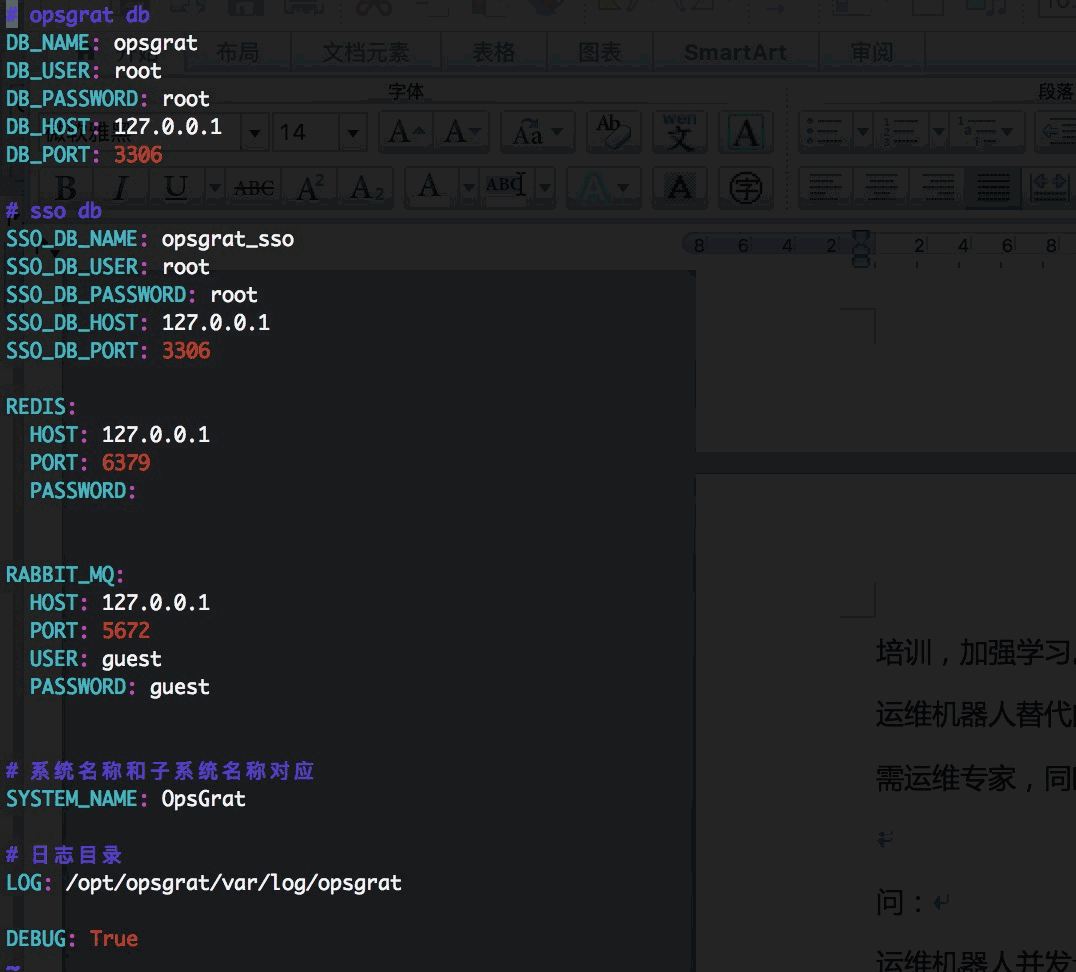
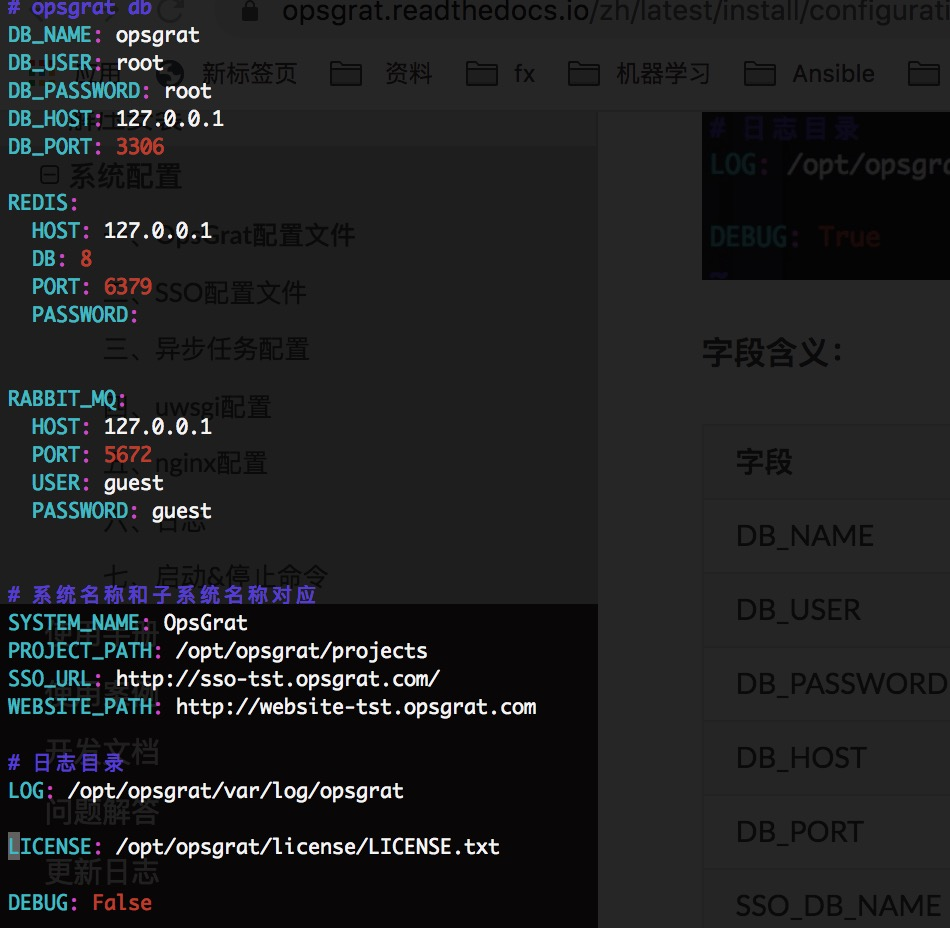
修正OpsGrat配置文件字段解释错误，增加License配置说明

diff --git a/source/install/configuration.rst b/source/install/configuration.rst
@@ -36,25 +36,15 @@
 +------------------------+------------+------------+------------------------------------------------+
 |**字段**                |**数据类型**|**是否必须**|**说明**                                        |
 +------------------------+------------+------------+------------------------------------------------+
-| DB_NAME                | String     | 是         | SSO数据库名称                                  |
+| DB_NAME                | String     | 是         | OpsGrat数据库名称                              |
 +------------------------+------------+------------+------------------------------------------------+
-| DB_USER                | String     | 是         | SSO数据库用户账号名                            |
+| DB_USER                | String     | 是         | OpsGrat数据库用户账号名                        |
 +------------------------+------------+------------+------------------------------------------------+
-| DB_PASSWORD            | String     | 是         | SSO数据库密码                                  |
+| DB_PASSWORD            | String     | 是         | OpsGrat数据库密码                              |
 +------------------------+------------+------------+------------------------------------------------+
-| DB_HOST                | String     | 是         | SSO数据库主机名、ip地址或域名                  |
+| DB_HOST                | String     | 是         | OpsGrat数据库主机名、ip地址或域名              |
 +------------------------+------------+------------+------------------------------------------------+
-| DB_PORT                | String     | 是         | SSO数据库端口                                  |
-+------------------------+------------+------------+------------------------------------------------+
-| SSO_DB_NAME            | String     | 是         | SSO数据库名称                                  |
-+------------------------+------------+------------+------------------------------------------------+
-| SSO_DB_USER            | String     | 是         | SSO数据库用户账号名                            |
-+------------------------+------------+------------+------------------------------------------------+
-| SSO_DB_PASSWORD        | String     | 是         | SSO数据库密码                                  |
-+------------------------+------------+------------+------------------------------------------------+
-| SSO_DB_HOST            | String     | 是         | SSO数据库主机名、ip地址或域名                  |
-+------------------------+------------+------------+------------------------------------------------+
-| SSO_DB_PORT            | String     | 是         | SSO数据库主端口                                |
+| DB_PORT                | String     | 是         | OpsGrat数据库端口                              |
 +------------------------+------------+------------+------------------------------------------------+
 | REDIS:                 | Dict       | 是         | Redis配置                                      |
 +------------------------+------------+------------+------------------------------------------------+
@@ -79,6 +69,8 @@
 | LOG                    | String     | 是         | OpsGrat系统日志路径                            |
 +------------------------+------------+------------+------------------------------------------------+
 | DEBUG                  | String     | 是         | 是否开启debug模式                              |
++------------------------+------------+------------+------------------------------------------------+
+| LICENSE                | String     | 是         | License文件路径                                |
 +------------------------+------------+------------+------------------------------------------------+
 
 
@@ -132,6 +124,8 @@
 +------------------------+------------+------------+------------------------------------------------+
 | DEBUG                  | String     | 是         | 是否开启debug模式                              |
 +------------------------+------------+------------+------------------------------------------------+
+| LICENSE                | String     | 是         | License文件路径                                |
++------------------------+------------+------------+------------------------------------------------+
 
 三、异步任务配置
 --------------------------
@@ -152,6 +146,8 @@
 | opsgratbeat.ini        | OpsGrat定时任务进程，用于生成计划任务作业                                |
 +------------------------+--------------------------------------------------------------------------+
 | ssod.ini               | SSO异步任务进程，用于执行AD用户同步等异步任务，默认进程数为2             |
++------------------------+--------------------------------------------------------------------------+
+| ssobeat.ini            | SSO定时任务进程，用于生成计划任务作业                                    |
 +------------------------+--------------------------------------------------------------------------+
 
 ::

diff --git a/source/install/all-in-one.rst b/source/install/all-in-one.rst
@@ -11,12 +11,11 @@
 - 内存：>= 8 GB
 - 磁盘：>= 40 GB
 
-二、下载安装包
+二、安装包
 ----------------
 
 ::
 
-   下载地址为：http://www.opsgrat.com/download/
    安装包为：opsgrat-all-in-one.tar.gz
 
 三、部署OpsGrat
